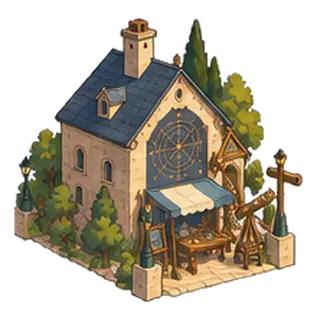
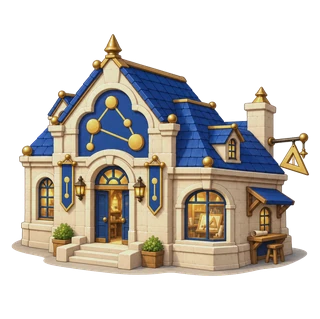
feat(portfolio-city): lock Observatory Hill quality master [skip ci]

diff --git a/docs/phase3-5-observatory-quality-master.md b/docs/phase3-5-observatory-quality-master.md
@@ -1,0 +1,117 @@
+# Portfolio City Phase 3.5 — Observatory Hill Quality Master
+
+Date: 2026-09-15
+Gate: Phase 3.5 Checkpoint 3 / Quality Master Decision
+Baseline main: `990098edc69fc72f7c7e77ab3248b46f5392f650`
+Working branch: `phase3-5-observatory-polish`
+Decision: **PASS — Observatory Hill is the visual quality master for subsequent illustrated districts.**
+
+## Scope
+
+This checkpoint evaluates Observatory Hill only. It does not authorize production of Archive Street, Workshop Alley, or Waterside Play.
+
+The gate follows the project-specific sequence adopted after the illustrated pilot:
+
+1. Phase 3.5-P1 — Observatory Hill Visual Polish audit
+2. Phase 3.5-P2 — Observatory Hill polish
+3. Checkpoint 3 — Quality Master decision
+
+The older architecture document described the next broad conversion stage as “Checkpoint 3”. For current execution, this quality gate takes precedence before any remaining-district conversion.
+
+## Approved source/runtime set
+
+- Terrain: `observatory_terrain.webp`
+- HoloScope: `holoscope.webp`
+- Sphere: `sphere.webp`
+- Prime Dot Art: `prime-dot-art.webp`
+- Sphere approved master: `sphere_phase3-5-p2_APPROVED.png` in Google Drive
+- Prime Dot Art approved master: `prime-dot-art_phase3-5-p2_APPROVED.png` in Google Drive
+
+## Visual master rules locked by this checkpoint
+
+### 1. Building hierarchy
+
+- HoloScope is the dominant technical lookout and may read largest/tallest.
+- Sphere is the rounded celestial building, clearly entered through a façade rather than read as a freestanding monument.
+- Prime Dot Art is the smallest and most intimate mass, a low mathematical atelier rather than another observatory.
+- Three project buildings must remain distinguishable by silhouette before labels are visible.
+
+### 2. Motif separation
+
+- HoloScope: telescope / observation instrument.
+- Sphere: celestial globe / planetarium architecture.
+- Prime Dot Art: dots, plotted relations, mathematics and restrained drafting/survey motifs.
+- Do not reuse giant rings, gears, clock faces or oversized astronomical devices for Prime Dot Art.
+
+### 3. Storybook rendering
+
+- Warm European storybook-town feeling is the north star.
+- Use cream stone, cobalt/sky-blue roofs and restrained gold accents.
+- Shapes stay simple enough to survive runtime reduction.
+- Avoid photorealism, uniform black outlines and excessive micro-detail.
+- No project title, catchcopy or explanatory text is baked into the artwork.
+
+### 4. Depth and sharpness
+
+- Distant terrain stays softer and lower priority.
+- Clickable project buildings are one visual step sharper than the background.
+- Building edges remain painted rather than vector-hard.
+- Contact shadows are soft, compact and compatible with upper-left lighting.
+
+## Runtime QA result
+
+### Responsive
+
+- 1440 px: PASS
+- 820 px: PASS
+- 390 px: PASS
+- Horizontal page overflow: `0 px` at all three widths.
+- All three Observatory Hill buildings remain identifiable at 390 px.
+
+### Interaction preservation
+
+- Building click / selection: PASS
+- Inspector title and route handoff: PASS
+- Keyboard Arrow navigation: PASS
+- Visited state persistence: PASS
+- DOM buttons remain the interaction source; raster art does not own hit testing.
+- JavaScript page errors: 0.
+- The only local HTTP 404 observed was `/favicon.ico`, unrelated to Portfolio City runtime assets.
+
+### Runtime asset measurements
+
+| Asset | Dimensions | Alpha | Approx. bytes |
+| --- | ---: | --- | ---: |
+| HoloScope | 284 × 320 | yes | 18 KB |
+| Sphere | 296 × 320 | yes | 27 KB |
+| Prime Dot Art | 320 × 319 | yes | 31 KB |
+| Observatory terrain | 768 × 506 | opaque | 42 KB |
+
+All project-building assets remain far below the provisional 250 KB building budget.
+
+## Checkpoint decision matrix
+
+| Criterion | Result | Notes |
+| --- | --- | --- |
+| Natural ground contact | PASS | Compact shadows and bottom-center placement read as grounded at runtime. |
+| Natural contact shadow | PASS | No large floating halo; shadow direction remains compatible with the terrain. |
+| Three-building scale balance | PASS | HoloScope leads; Sphere supports; Prime Dot Art remains intimate. |
+| Silhouette separation | PASS | Telescope / globe / low atelier read as separate families. |
+| Background vs building sharpness | PASS | Terrain recedes; project buildings remain more legible. |
+| 390 px recognition | PASS | All three remain visually distinct. |
+| Sphere reads as a building | PASS | Entrance, façade and side masses prevent monument-only reading. |
+| Prime Dot Art avoids gear language | PASS | Dot network and drafting motif dominate instead. |
+| Storybook-town direction | PASS | Warm stone, blue roofs and restrained detail remain compatible with the approved references. |
+| No baked explanatory text | PASS | Runtime art remains text-free. |
+| Existing interaction contract | PASS | Click, keyboard, inspector, route and visited semantics preserved. |
+| Runtime weight | PASS | Building derivatives are 18–31 KB. |
+
+## Quality-master rule for later districts
+
+Observatory Hill is a **quality bar, not a copy template**. Later districts must inherit camera, lighting, edge softness, runtime clarity, material warmth and detail restraint, while using their own architecture and motifs.
+
+Before a later district can be called complete, its buildings must pass the same 1440 / 820 / 390 silhouette test and interaction regression test used here.
+
+## Stop condition
+
+Checkpoint 3 ends here. Do **not** begin the remaining three districts until a separate next-stage instruction is given.

diff --git a/docs/phase3-5-art-bible.md b/docs/phase3-5-art-bible.md
@@ -1,7 +1,7 @@
 # Portfolio City Phase 3.5 — Illustrated City Art Bible
 
 Designed: 2026-09-14
-Status: Checkpoint 2 working standard
+Status: Checkpoint 3 quality master / locked for subsequent district art
 Pilot district: Observatory Hill
 
 ## Purpose
@@ -208,3 +208,13 @@ Checkpoint 2 pilot is successful only when:
 - legacy fallback can still be restored without touching project content data
 
 The pilot is a production-style proof, not a concept painting. It must prove that the art direction and modular runtime architecture can coexist.
+
+## 13. Checkpoint 3 quality-master lock
+
+Observatory Hill passed the 2026-09-15 visual quality gate. Its current terrain and three project-building runtime derivatives define the quality bar for subsequent districts.
+
+Canonical decision record: `docs/phase3-5-observatory-quality-master.md`.
+
+Later districts inherit the camera, lighting, edge treatment, material warmth, atmospheric depth, runtime silhouette clarity and detail restraint. They must not copy Observatory Hill's celestial architecture or blue/gold motifs merely for consistency.
+
+Remaining-district production begins only after a separate explicit next-stage instruction.

diff --git a/docs/phase3-5-illustrated-city-architecture.md b/docs/phase3-5-illustrated-city-architecture.md
@@ -2,7 +2,9 @@
 
 Designed: 2026-09-14
 Baseline: `2361294695381f45e79f69cb38e31753ae30f9c3`
-Status: architecture proposal / implementation not started
+Status: pilot implemented; Observatory Hill quality master locked 2026-09-15
+
+> Sequence note (2026-09-15): after the illustrated Observatory Hill pilot, the project inserted Phase 3.5-P1, Phase 3.5-P2 and a quality-master Checkpoint 3 before remaining-district conversion. The older ?Checkpoint 3 ? Four-district conversion? heading below is therefore a historical sequence label, not authorization to start that work. See `docs/phase3-5-observatory-quality-master.md`.
 
 ## 1. Goal
 
